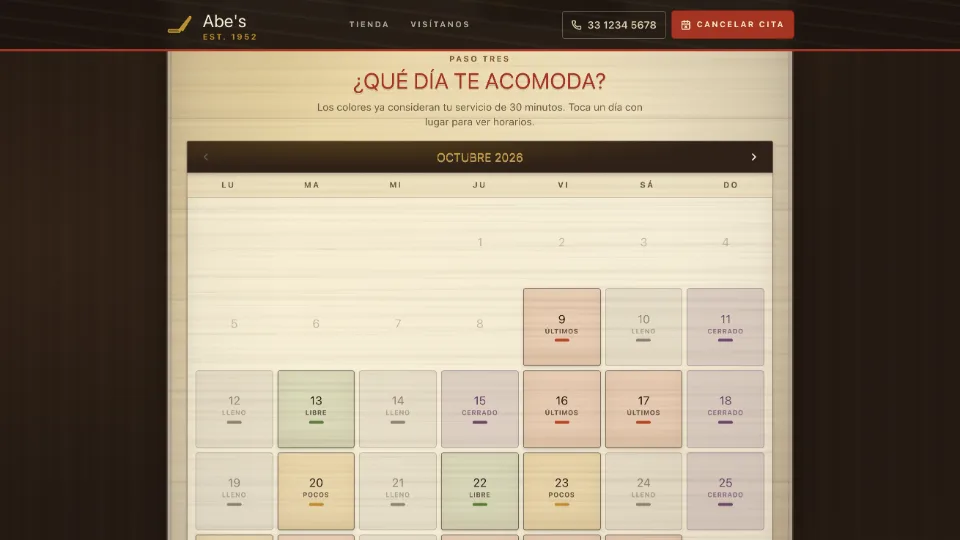
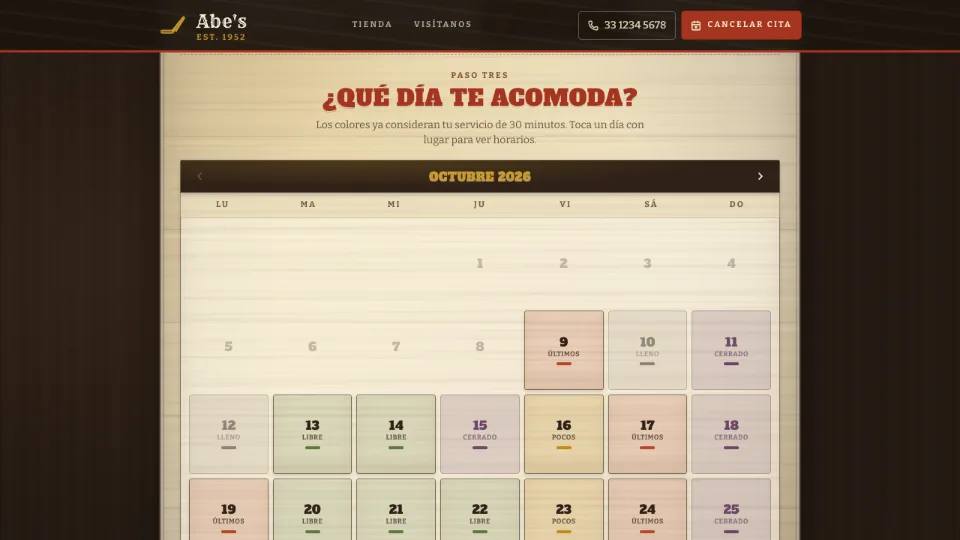
Quitar placeholders, reescribir sobre mí y ocultar enlaces a repos
- Hero: "Desarrollo y diseño web" en lugar del texto de relleno
- Proyectos: fuera el párrafo de relleno
- Sobre mí: texto nuevo sin lista de tecnologías
- Las tarjetas ya no muestran enlace al código; fuera el campo repo
- Preview de la agenda actualizada con la tipografía corregida

diff --git a/src/pages/About.tsx b/src/pages/About.tsx
@@ -1,8 +1,5 @@
 import Footer from '../components/Footer'
 
-const mainSkills = ['React', 'Next.js', 'TypeScript', 'Tailwind']
-const otherSkills = ['Figma', 'Node.js', 'Git', 'Vercel']
-
 export default function About() {
   return (
     <>
@@ -12,32 +9,15 @@ export default function About() {
             Sobre mí
           </h1>
 
-          <p className="text-text text-lg leading-relaxed mb-6">
-            Llevo 10 años construyendo productos web con atención al detalle: desde la arquitectura del componente hasta cómo lo indexa Google. Me especializo en frontend con React y Next.js, cuidando siempre la experiencia de usuario y el rendimiento. Disponible para proyectos freelance de cualquier escala.
+          <p className="text-text text-lg leading-relaxed mb-4">
+            Ingeniero de software desde 2016. Construyo sitios y aplicaciones
+            web de principio a fin, con amplia experiencia en UI/UX, SEO y
+            performance para sitios veloces.
           </p>
 
-          <div className="space-y-4">
-            <div>
-              <p className="text-text-heading text-sm font-semibold mb-2">Principales</p>
-              <div className="flex flex-wrap gap-2">
-                {mainSkills.map((s) => (
-                  <span key={s} className="px-3 py-1 bg-accent/10 text-accent text-sm rounded-full">
-                    {s}
-                  </span>
-                ))}
-              </div>
-            </div>
-            <div>
-              <p className="text-text-heading text-sm font-semibold mb-2">Complementarios</p>
-              <div className="flex flex-wrap gap-2">
-                {otherSkills.map((s) => (
-                  <span key={s} className="px-3 py-1 bg-surface-3 text-text-muted text-sm rounded-full">
-                    {s}
-                  </span>
-                ))}
-              </div>
-            </div>
-          </div>
+          <p className="text-text text-lg leading-relaxed">
+            Disponible para proyectos freelance.
+          </p>
         </div>
       </section>
       <Footer />

diff --git a/src/data/projects.ts b/src/data/projects.ts
@@ -5,7 +5,6 @@ export interface Project {
   category: 'diseno' | 'datos' | 'funcional' | 'contenido'
   stack: string[]
   demo?: string
-  repo?: string
   preview: string
 }
 
@@ -26,7 +25,6 @@ export const projects: Project[] = [
     category: "funcional",
     stack: ["Next.js", "TypeScript", "Tailwind", "Framer Motion"],
     demo: "https://product-page-olive-nine.vercel.app/",
-    repo: "https://github.com/abelardogg/product-page",
     preview: "/previews/product-page.webp",
   },
   {
@@ -36,7 +34,6 @@ export const projects: Project[] = [
     category: "funcional",
     stack: ["Next.js", "TypeScript", "Tailwind", "Framer Motion"],
     demo: "https://agenda-eta-eight.vercel.app/",
-    repo: "https://github.com/abelardogg/agenda",
     preview: "/previews/agenda.webp",
   },
 ]

diff --git a/src/components/ProjectCard.tsx b/src/components/ProjectCard.tsx
@@ -1,4 +1,4 @@
-import { ExternalLink, Github } from 'lucide-react'
+import { ExternalLink } from 'lucide-react'
 import type { Project } from '../data/projects'
 
 interface Props {
@@ -47,17 +47,6 @@ export default function ProjectCard({ project }: Props) {
             >
               <ExternalLink size={14} />
               Ver demo
-            </a>
-          )}
-          {project.repo && (
-            <a
-              href={project.repo}
-              target="_blank"
-              rel="noopener noreferrer"
-              className="inline-flex items-center gap-1.5 text-sm text-text hover:text-text-heading transition-colors"
-            >
-              <Github size={14} />
-              Código
             </a>
           )}
         </div>

diff --git a/src/components/Projects.tsx b/src/components/Projects.tsx
@@ -24,12 +24,9 @@ export default function Projects() {
   return (
     <section id="proyectos" className="py-24 px-4">
       <div className="max-w-6xl mx-auto">
-        <h2 className="text-3xl sm:text-4xl font-bold text-text-heading mb-2">
+        <h2 className="text-3xl sm:text-4xl font-bold text-text-heading mb-8">
           Proyectos
         </h2>
-        <p className="text-text mb-8">
-          Lorem ipsum dolor sit amet, consectetur adipiscing elit.
-        </p>
 
         <div className="flex flex-wrap gap-2 mb-10">
           {categories.map((cat) => (

diff --git a/src/components/Hero.tsx b/src/components/Hero.tsx
@@ -39,7 +39,7 @@ export default function Hero() {
             abgg <span className="text-accent">development</span>
           </h1>
           <p className="text-lg sm:text-xl text-white/60 max-w-xl leading-relaxed">
-            Lorem ipsum dolor sit amet, consectetur adipiscing elit.
+            Desarrollo y diseño web
           </p>
         </div>
       </div>
